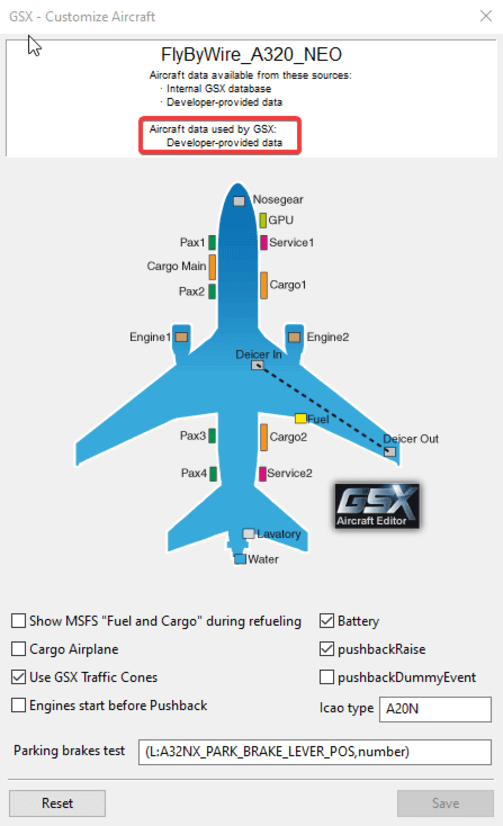
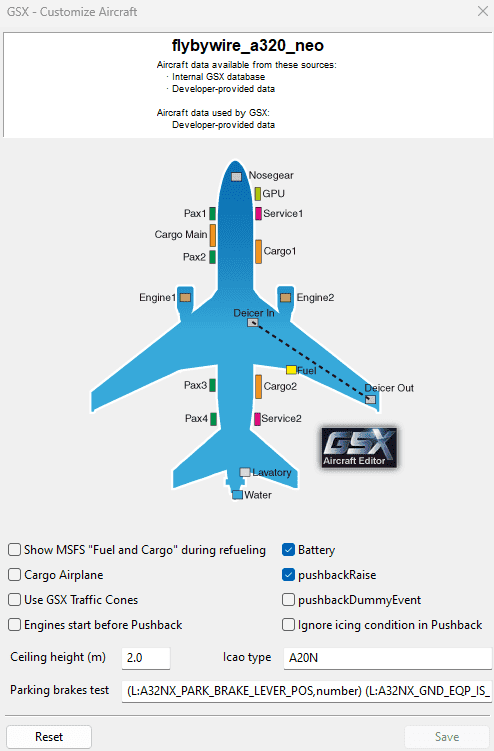
docs: Updated GSX Integration Docs to reflect current implementation
* Updated images

* Update docs/fbw-a32nx/feature-guides/gsxintegration/fuel.md

Typo correction

* Changed images to match default EFB theme, updated images for better compression/quality

* Update docs/fbw-a32nx/feature-guides/gsxintegration/fuel.md

* Update docs/fbw-a32nx/feature-guides/gsxintegration/fuel.md

---------

Changed region(s): [[0.0, 0.0, 1.0, 1.0], [0.9717, 0.0, 1.0, 0.0306]]

diff --git a/docs/fbw-a32nx/feature-guides/gsxintegration/fuel.md b/docs/fbw-a32nx/feature-guides/gsxintegration/fuel.md
@@ -1,7 +1,7 @@
 # Fuel Synchronization
 
 !!! warning ""
-    You must enable [Fuel Sync](../flypados3/settings.md#3rd-party-options)
+    You must enable [Fuel Sync](../flypados3/settings.md#3rd-party-options) on the 3rd Party Options settings page on the EFB for this to function.
 
 This page explains, how to use the fueling "synchronization" as-well as any caveats you should be made aware of when using it.
 
@@ -18,13 +18,15 @@ This page explains, how to use the fueling "synchronization" as-well as any cave
 ## Usage
 ![Fuel Start](../../assets/gsxintegration/gsx-fuel-start.png)
 
-You may notice the fuel page is slightly different, with the Play button being greyed out. This is because for the sake of GSX flow, you cannot begin fueling until the fuel hose is connected.
+Much of the refuelling process between the A32NX and GSX is automated; However some input is required from the user to set the fuel and initiate refuelling.
 
 1. Fueling
-      - The "play" button is disabled until the fuel truck has arrived, and the hose is connected.
-      - Select `Request Fueling` from the GSX Menu.
-      - Wait for the fuel truck to arrive and connect the fuel hose.
-      - Set the [fuel quantity](../flypados3/ground.md#fuel-and-de-fuel) that you desire and press the "play" button.
-      - You can witness outside as the fuel truck begins to re-fuel your aircraft.
+      - To use GSX as part of the refuelling process, 'Refuel Time' should be `Real` or `Fast`. Selecting `Instant` will add the fuel immediately, and will not involve GSX.
+      - Ensure you have synchronised your required fuel with your SimBrief flight plan, or manually adjust the slider to set how much fuel you require.
+      - Above the slider, you will see `(Call GSX Refuel)` - you need to select `Request Refuelling` within the GSX main menu. Be aware that you cannot adjust the fuel slider/amount once you have clicked this.
+      - GSX will now send the fuel truck to the aircraft. The `(Call GSX Refuel)` will disappear during this process.
+      - When the fuel truck has set up and connected the fuel hose to the aircraft it will begin to load fuel into the tanks. Above the slider you will see `(Refuelling...)` and the 'Total Fuel' at the top of the EFB page should begin to increase until it reaches the amount you requested.
+      - Once complete, `(Refuelling...)` will disappear and the fuel truck will leave.
+
 2. Defueling
-     - Due to limitations with GSX, this is not supported. To defuel, disable [Fuel Sync](../flypados3/settings.md#3rd-party-options) temporarily.
+     - Due to limitations with GSX, this is not supported. To defuel, disable [Fuel Sync](../flypados3/settings.md#3rd-party-options) temporarily and use the play button to initiate the defuelling process.

diff --git a/docs/fbw-a32nx/feature-guides/gsxintegration/index.md b/docs/fbw-a32nx/feature-guides/gsxintegration/index.md
@@ -13,12 +13,12 @@ description: A guide to the GSX Integration provided in the A32NX.
 !!! warning "Please Note"
     This guide covers GSX Integration and the features available in the latest FlyByWire [Development Version](../../fbw-versions.md#development-version-recommended).
 
-    If you use the FlyByWire Stable version, you might not have all features available. This will be appropriately flagged throughout our doucmentation.
+    If you use the FlyByWire Stable version, you might not have all features available. This will be appropriately flagged throughout our documentation.
 
 !!! danger "Support"
     The FlyByWire team does not take responsibility for bugs encountered while using GSX. 
     
-    If you're experiencing issues with GSX, please refer to the FSDreamTeam's forums or their discord. The GSX Integration feature provided is regarding GSX interacting with FlyByWire and nothing more.
+    If you're experiencing issues with GSX, please refer to the [FSDreamTeam's forums](https://www.fsdreamteam.com/forum/) or their [Discord](https://discord.com/invite/e7DBUe3Ftc). The GSX Integration feature provided is regarding GSX interacting with FlyByWire and nothing more.
 
 !!! abstract "FSDreamteam: [GSX](https://www.fsdreamteam.com/products_gsxpro.html){target=new}:"
 
@@ -32,7 +32,7 @@ This documentation takes you through all pages and functions of GSX Integration.
 
 [//]: # (TODO need to add a picture here)
 
-![GSX Flypad](../../assets/gsxintegration/gsx-hero.jpg "GSX Settings")
+![GSX Intergration](../../assets/gsxintegration/gsx-hero.jpg "GSX Refuelling the FBW")
 
 ## General Usage
 

diff --git a/docs/fbw-a32nx/feature-guides/gsxintegration/payload.md b/docs/fbw-a32nx/feature-guides/gsxintegration/payload.md
@@ -1,7 +1,7 @@
 # Payload Synchronization
 
 !!! warning ""
-    You must enable [Payload Sync](../flypados3/settings.md#3rd-party-options) in order for this to function.
+    You must enable [Payload Sync](../flypados3/settings.md#3rd-party-options) on the 3rd Party Options settings page on the EFB for this to function.
 
 This page goes over how to use payload synchronization as-well as any caveats you should be aware of when using it.
 
@@ -17,7 +17,7 @@ This page goes over how to use payload synchronization as-well as any caveats yo
 - Once boarding has started, you can no longer edit the fields in the payload screen.
   
 ## General Usage
-![Payload Start](../../assets/gsxintegration/gsx-payload-start.jpg)
+![Payload Start](../../assets/gsxintegration/gsx-payload-start.png)
 
 You may notice the payload page is slightly different, with the Play/Stop button missing. This is because boarding is now managed by GSX and thus triggering these states is done by you, the user, through the GSX Menu.
 

diff --git a/docs/fbw-a32nx/feature-guides/gsxintegration/profile.md b/docs/fbw-a32nx/feature-guides/gsxintegration/profile.md
@@ -21,9 +21,6 @@ The correct SimVar was set to ensure that GSX correctly detects the parking brak
 ### Payload/Fuel Window
 This option has been disabled due to our custom payload and fuel systems.
 
-### Traffic cones
-As the A32NX's cones and chocks are disabled with enabling GSX Integration, this option is enabled to provide the user with cones.
-
 ## Troubleshooting
 Currently, GSX may not correctly detect the developer profile as shown in [overview](#overview). To circumvent this, you can manually copy the developer profile to GSX's profile folder.
 
